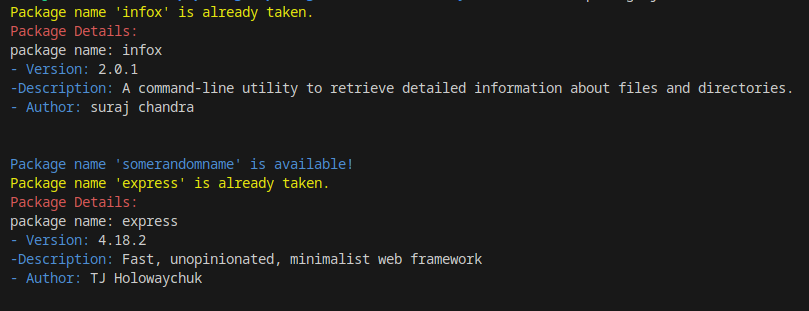
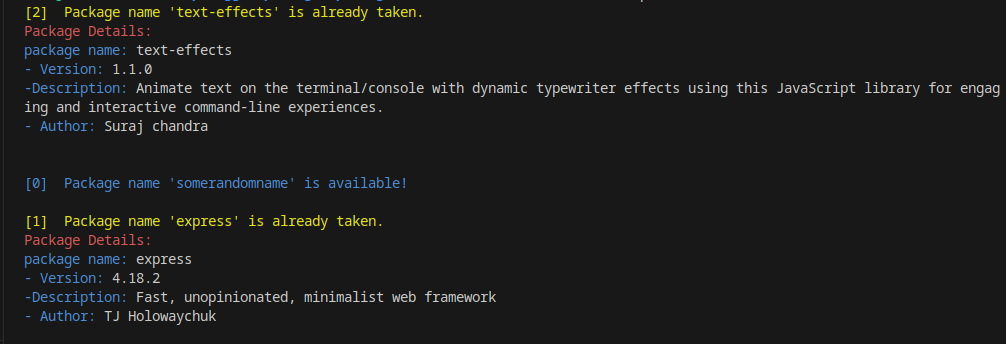
enhanced text formatting

Changed region(s): [[0.0, 0.0, 1.0, 0.4051], [0.0, 0.5788, 0.618, 0.955], [0.0, 0.492, 0.4326, 0.5498]]

diff --git a/package.js b/package.js
@@ -1,9 +1,8 @@
 #!/usr/bin/env node
+const ansi=require("./ansi")
 
-let red = "\x1b[31m";
-let blue = "\x1b[34m";
-let reset = "\x1b[0m";
-let yellow = "\x1b[33m";
+
+
 
 const https = require('https');
 
@@ -30,14 +29,14 @@ for (let i = 0; i < packageName.length; i++) {
     res.on('end', () => {
       let jsonData = JSON.parse(data);
       if (jsonData.error && jsonData.error === 'Not found') {
-        console.log(blue + `Package name '${packageName[i]}' is available!` + reset);
+        console.log(ansi.fgBlue + `[${i}]  Package name '${packageName[i]}' is available! \n` + ansi.reset);
       } else {
-        console.log(yellow + `Package name '${packageName[i]}' is already taken.` + reset);
+        console.log(ansi.fgYellow + `[${i}]  Package name '${packageName[i]}' is already taken.` + ansi.reset);
         if (verboseMode) {
-          console.log(red + `Package Details:` + reset);
-          console.log('package name:' + ` ${packageName[i]}`)
-          console.log(`${blue}- Version:${reset} ${jsonData['dist-tags'].latest}`);
-          console.log(`${blue}-Description:${reset} ${jsonData.versions[jsonData['dist-tags'].latest].description}`);
+          console.log(ansi.fgRed + `Package Details:` + ansi.reset);
+          console.log(ansi.fgBlue+'package name:' +ansi.reset+ ` ${packageName[i]}`)
+          console.log(`${ansi.fgBlue}- Version:${ansi.reset} ${jsonData['dist-tags'].latest}`);
+          console.log(`${ansi.fgBlue}-Description:${ansi.reset} ${jsonData.versions[jsonData['dist-tags'].latest].description}`);
           const authorInfo = jsonData.versions[jsonData['dist-tags'].latest].author;
 
           let author;
@@ -47,7 +46,7 @@ for (let i = 0; i < packageName.length; i++) {
             author = 'Unknown';
           }
 
-          console.log(`${blue}- Author:${reset} ${author}\n\n`);
+          console.log(`${ansi.fgBlue}- Author:${ansi.reset} ${author}\n\n`);
         }
       }
     });

diff --git a/ansi.js b/ansi.js
@@ -1,0 +1,29 @@
+const ansi = {
+    reset: '\x1b[0m',
+    bright: '\x1b[1m',
+    dim: '\x1b[2m',
+    underscore: '\x1b[4m',
+    blink: '\x1b[5m',
+    reverse: '\x1b[7m',
+    hidden: '\x1b[8m',
+
+    fgBlack: '\x1b[30m',
+    fgRed: '\x1b[31m',
+    fgGreen: '\x1b[32m',
+    fgYellow: '\x1b[33m',
+    fgBlue: '\x1b[34m',
+    fgMagenta: '\x1b[35m',
+    fgCyan: '\x1b[36m',
+    fgWhite: '\x1b[37m',
+
+    bgBlack: '\x1b[40m',
+    bgRed: '\x1b[41m',
+    bgGreen: '\x1b[42m',
+    bgYellow: '\x1b[43m',
+    bgBlue: '\x1b[44m',
+    bgMagenta: '\x1b[45m',
+    bgCyan: '\x1b[46m',
+    bgWhite: '\x1b[47m',
+};
+
+module.exports = ansi;
